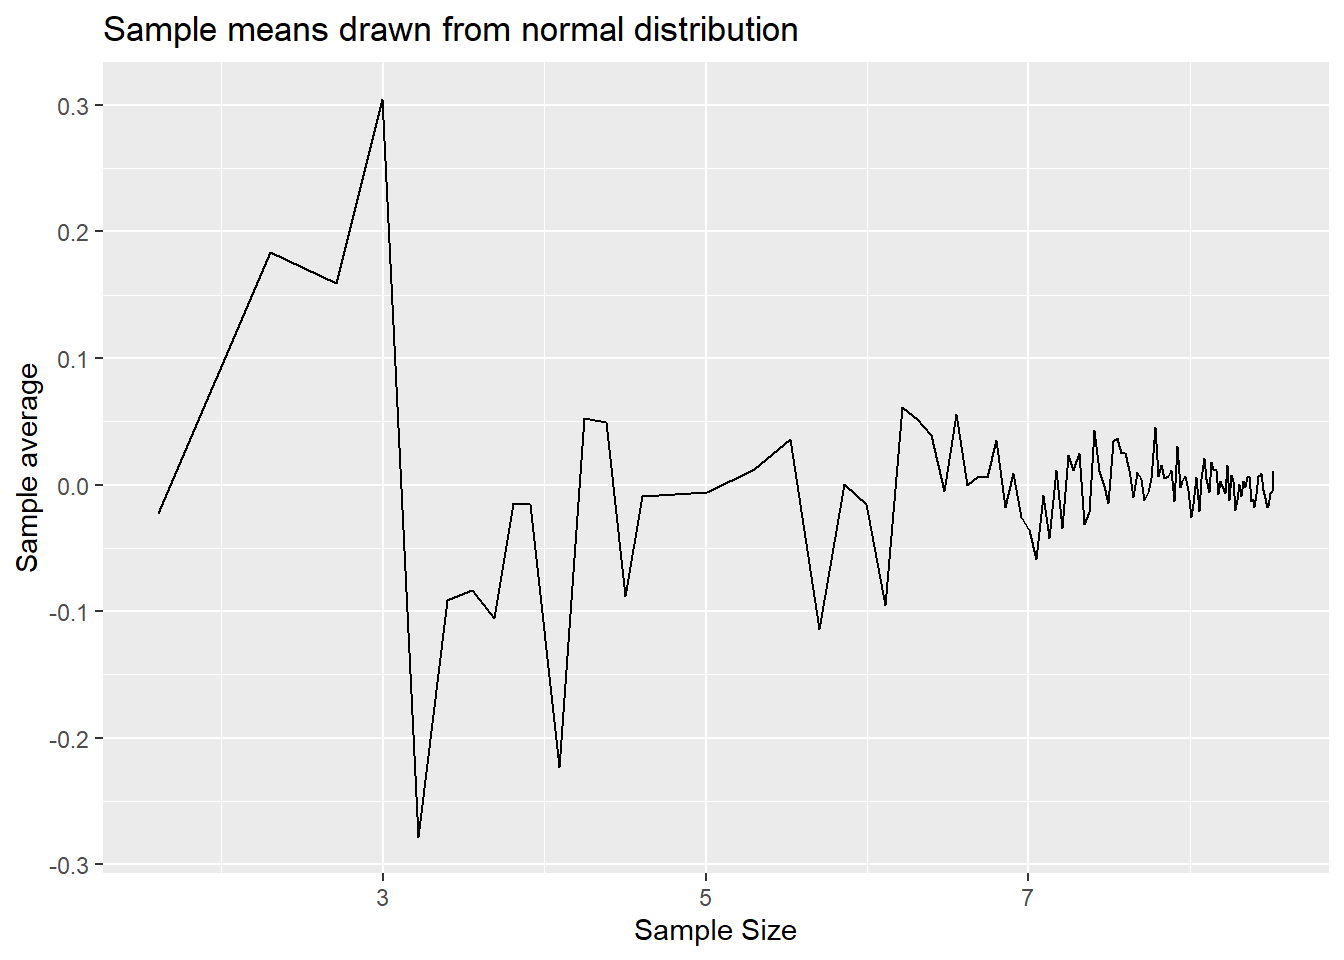
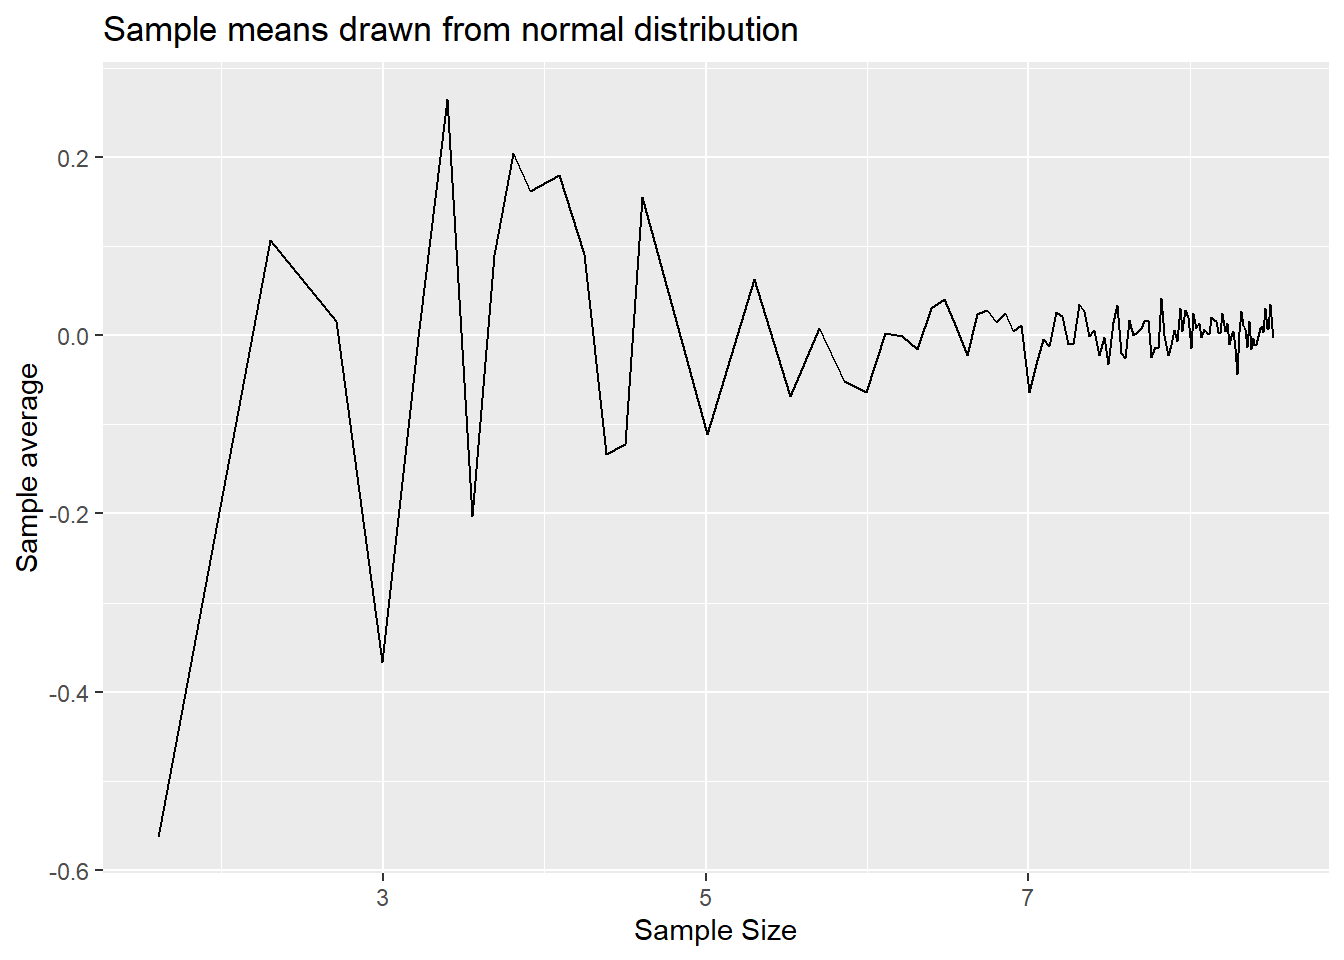
Changed hiearchy on index

diff --git a/R_LLN_and_CLT.html b/R_LLN_and_CLT.html
@@ -377,9 +377,9 @@ x2 &lt;- rnorm(n, mean=mu, sd=std)  # sampled from normal distribution with mean
 mean1 &lt;- mean(x1)
 mean2 &lt;- mean(x2)
 paste(&quot;Sample 1 mean = &quot;, mean1)</code></pre>
-<pre><code>## [1] &quot;Sample 1 mean =  1.56863105746452&quot;</code></pre>
+<pre><code>## [1] &quot;Sample 1 mean =  1.58705824376084&quot;</code></pre>
 <pre class="r"><code>paste(&quot;Sample 2 mean = &quot;, mean2)</code></pre>
-<pre><code>## [1] &quot;Sample 2 mean =  -0.413753138885421&quot;</code></pre>
+<pre><code>## [1] &quot;Sample 2 mean =  -0.0700424461654887&quot;</code></pre>
 <p>As you can see the means are different from the respective population
 means of 1.5 (for the uniform distribution drawing values between 1 and
 2) and 0 (as set when we draw normally distributed random vaiables). The
@@ -474,11 +474,11 @@ p_denpop</code></pre>
 population mean and standard deviation.</p>
 <pre class="r"><code>mu_x = mean(Xpop)
 paste(&quot;Population mean =&quot;, mu_x)</code></pre>
-<pre><code>## [1] &quot;Population mean = 0.747570309782211&quot;</code></pre>
+<pre><code>## [1] &quot;Population mean = 0.747352130798188&quot;</code></pre>
 <pre class="r"><code># as sd calculates sample sd we correct to get pop sd
 std_x = sd(Xpop)*((length(Xpop)-1)/length(Xpop)) 
 paste(&quot;Population standard error =&quot;, std_x)</code></pre>
-<pre><code>## [1] &quot;Population standard error = 1.05176969053287&quot;</code></pre>
+<pre><code>## [1] &quot;Population standard error = 1.05115510406468&quot;</code></pre>
 <p>Let’s start by using two sample sizes, <code>n1=5</code> and
 <code>n2=30</code>. We draw 1000 samples, calculate sample means and
 then show the distribution of the resulting sequences of sample

diff --git a/index.html b/index.html
@@ -524,8 +524,9 @@ in R</a></td>
 </tr>
 </tbody>
 </table>
-<div id="large-data-data-science-techniques" class="section level2">
-<h2>Large Data / Data Science techniques</h2>
+</div>
+<div id="large-data-data-science-techniques" class="section level1">
+<h1>Large Data / Data Science techniques</h1>
 <table style="width:100%;">
 <colgroup>
 <col width="36%" />
@@ -572,8 +573,8 @@ in R</a></td>
 </tbody>
 </table>
 </div>
-<div id="dealing-with-time-series-variables" class="section level2">
-<h2>Dealing with Time-Series variables</h2>
+<div id="dealing-with-time-series-variables" class="section level1">
+<h1>Dealing with Time-Series variables</h1>
 <table style="width:100%;">
 <colgroup>
 <col width="36%" />
@@ -605,11 +606,6 @@ in R</a></td>
 </tr>
 </tbody>
 </table>
-</div>
-<div id="special-topics" class="section level2">
-<h2>Special topics</h2>
-<p>to come</p>
-</div>
 </div>
 <div id="examples" class="section level1">
 <h1>Examples</h1>

diff --git a/R_GarchModelling.html b/R_GarchModelling.html
@@ -417,7 +417,7 @@ of these dataframes to understand what data these are:</p>
 ##   Index:   Date [2850] (TZ: &quot;UTC&quot;)
 ##   xts Attributes:
 ##     $ src    : chr &quot;yahoo&quot;
-##     $ updated: POSIXct[1:1], format: &quot;2024-10-07 09:50:45&quot;</code></pre>
+##     $ updated: POSIXct[1:1], format: &quot;2024-10-07 09:59:45&quot;</code></pre>
 <p>You can see that this object contains a range of daily observations
 (<code>Open</code>, <code>High</code>, <code>Close</code>,
 <code>Volume</code> and <code>Adjusted</code> share price). We also
